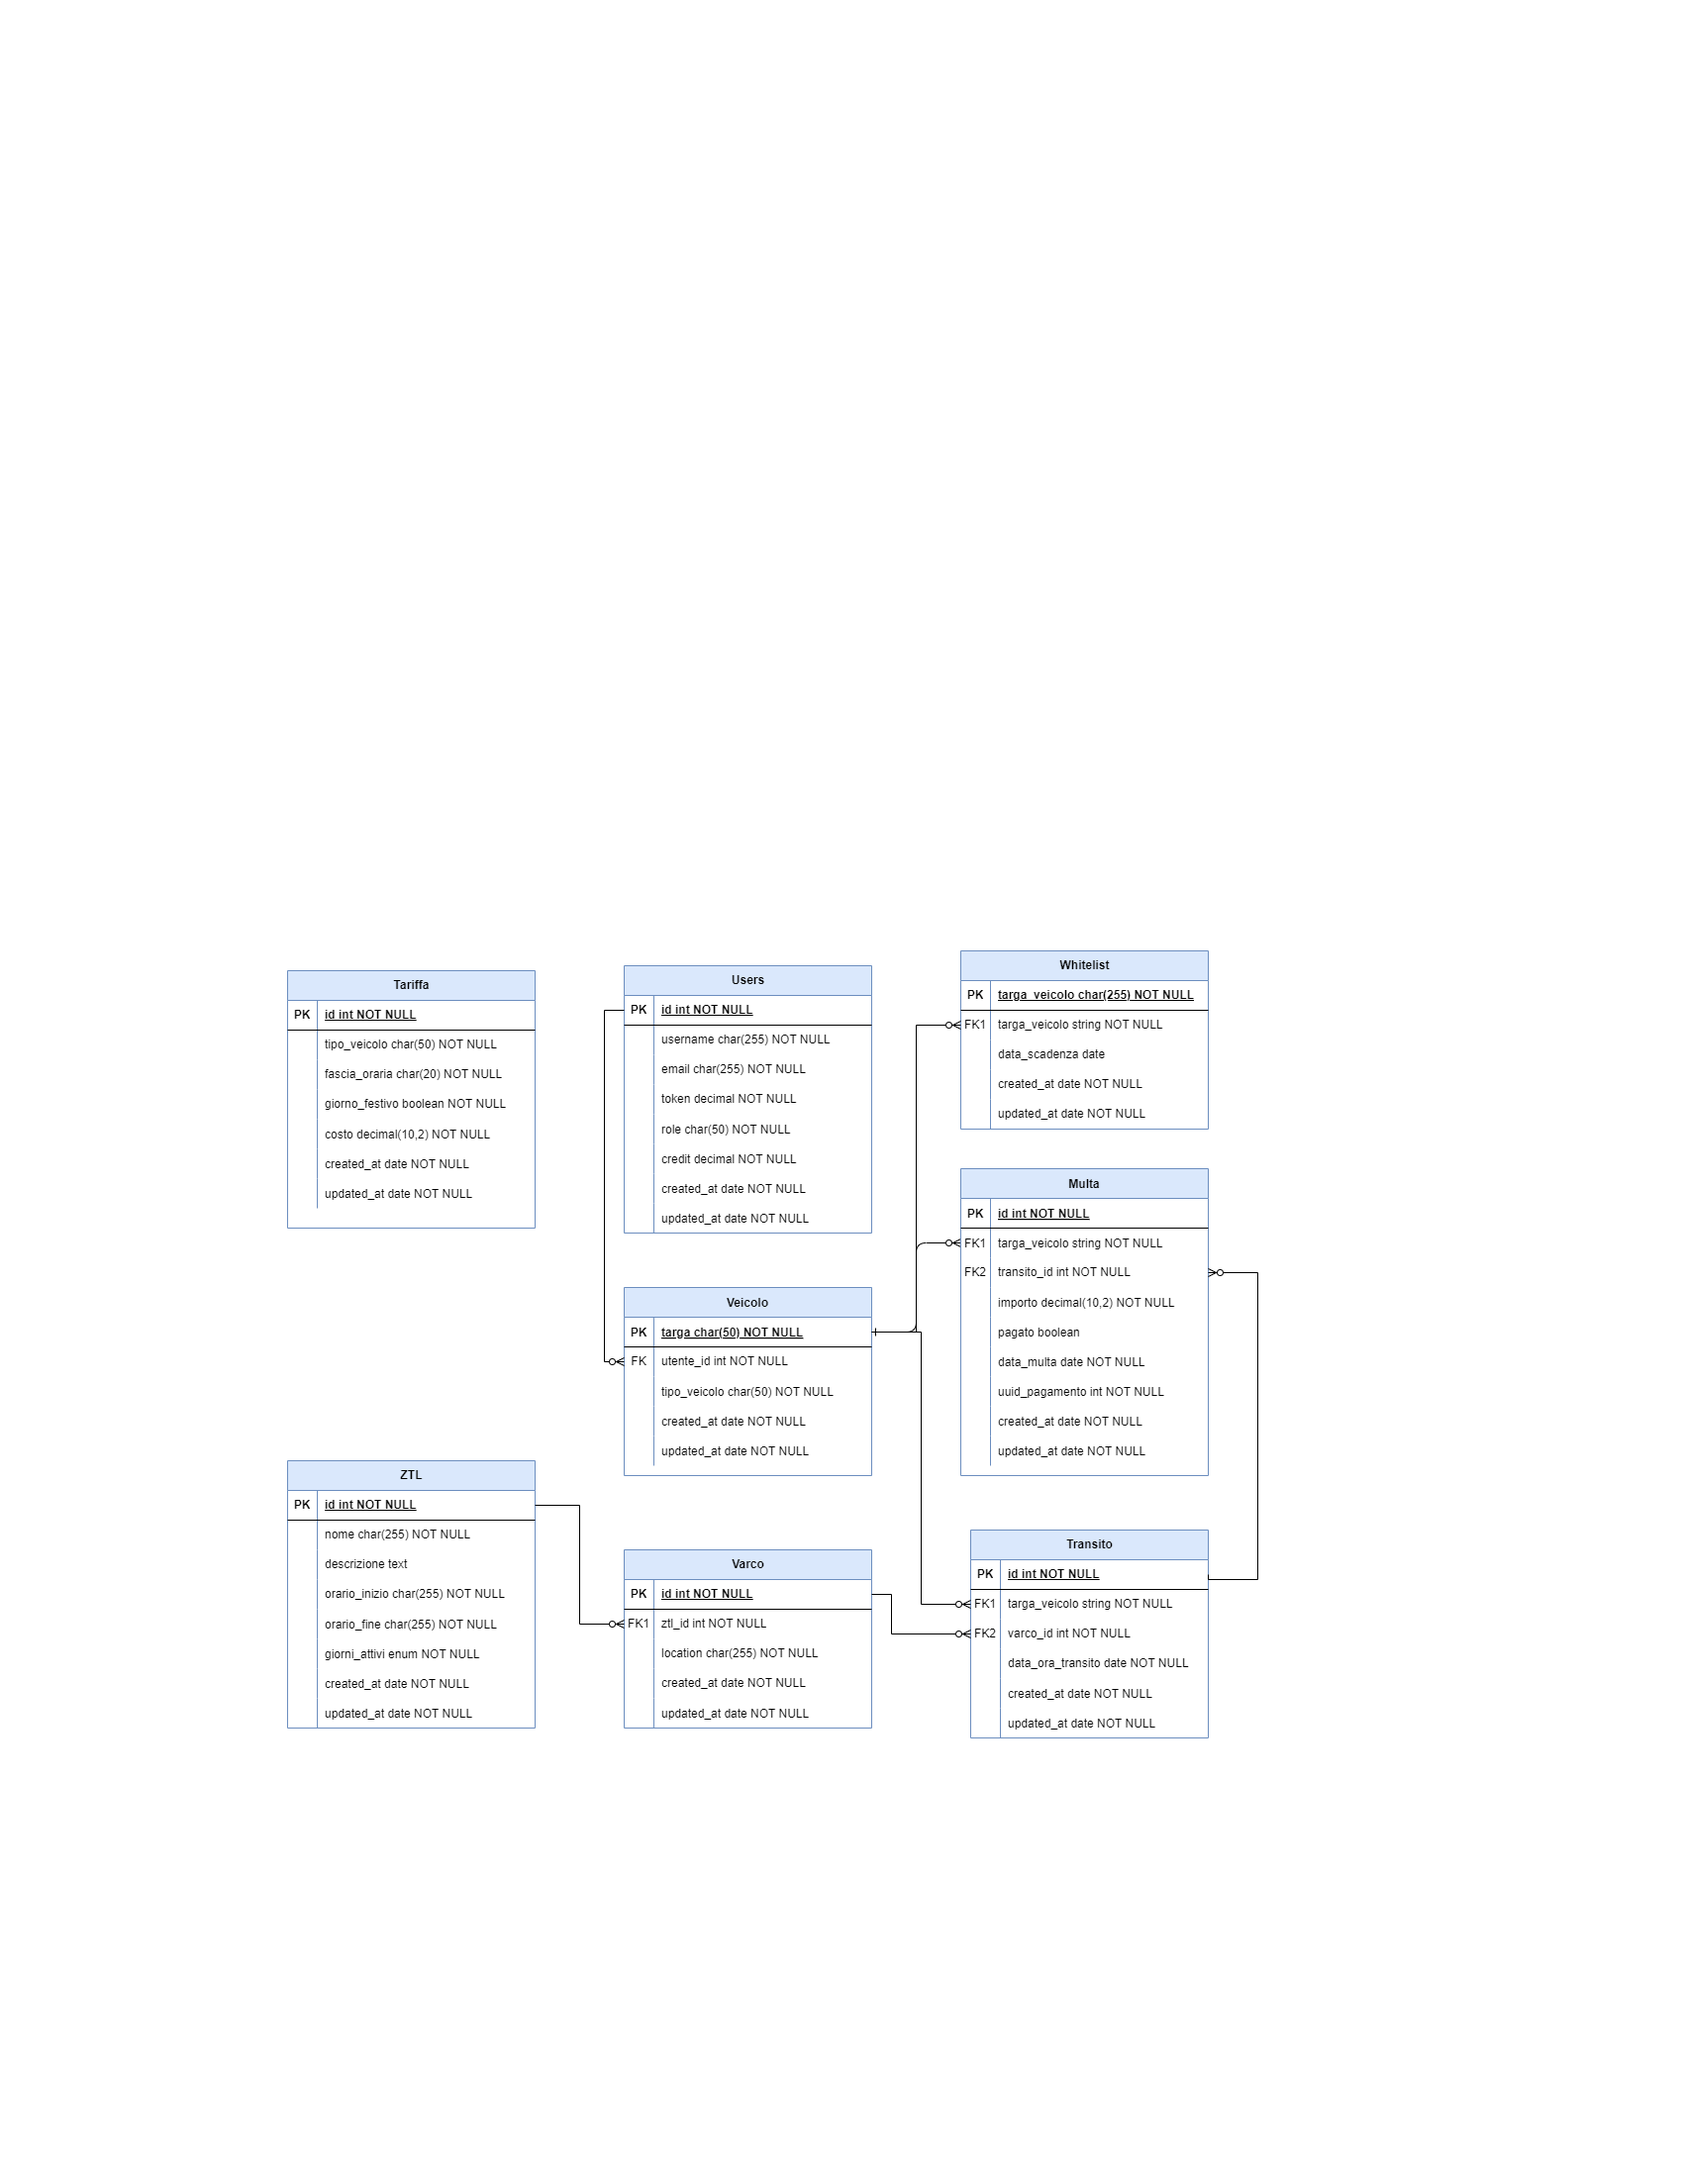
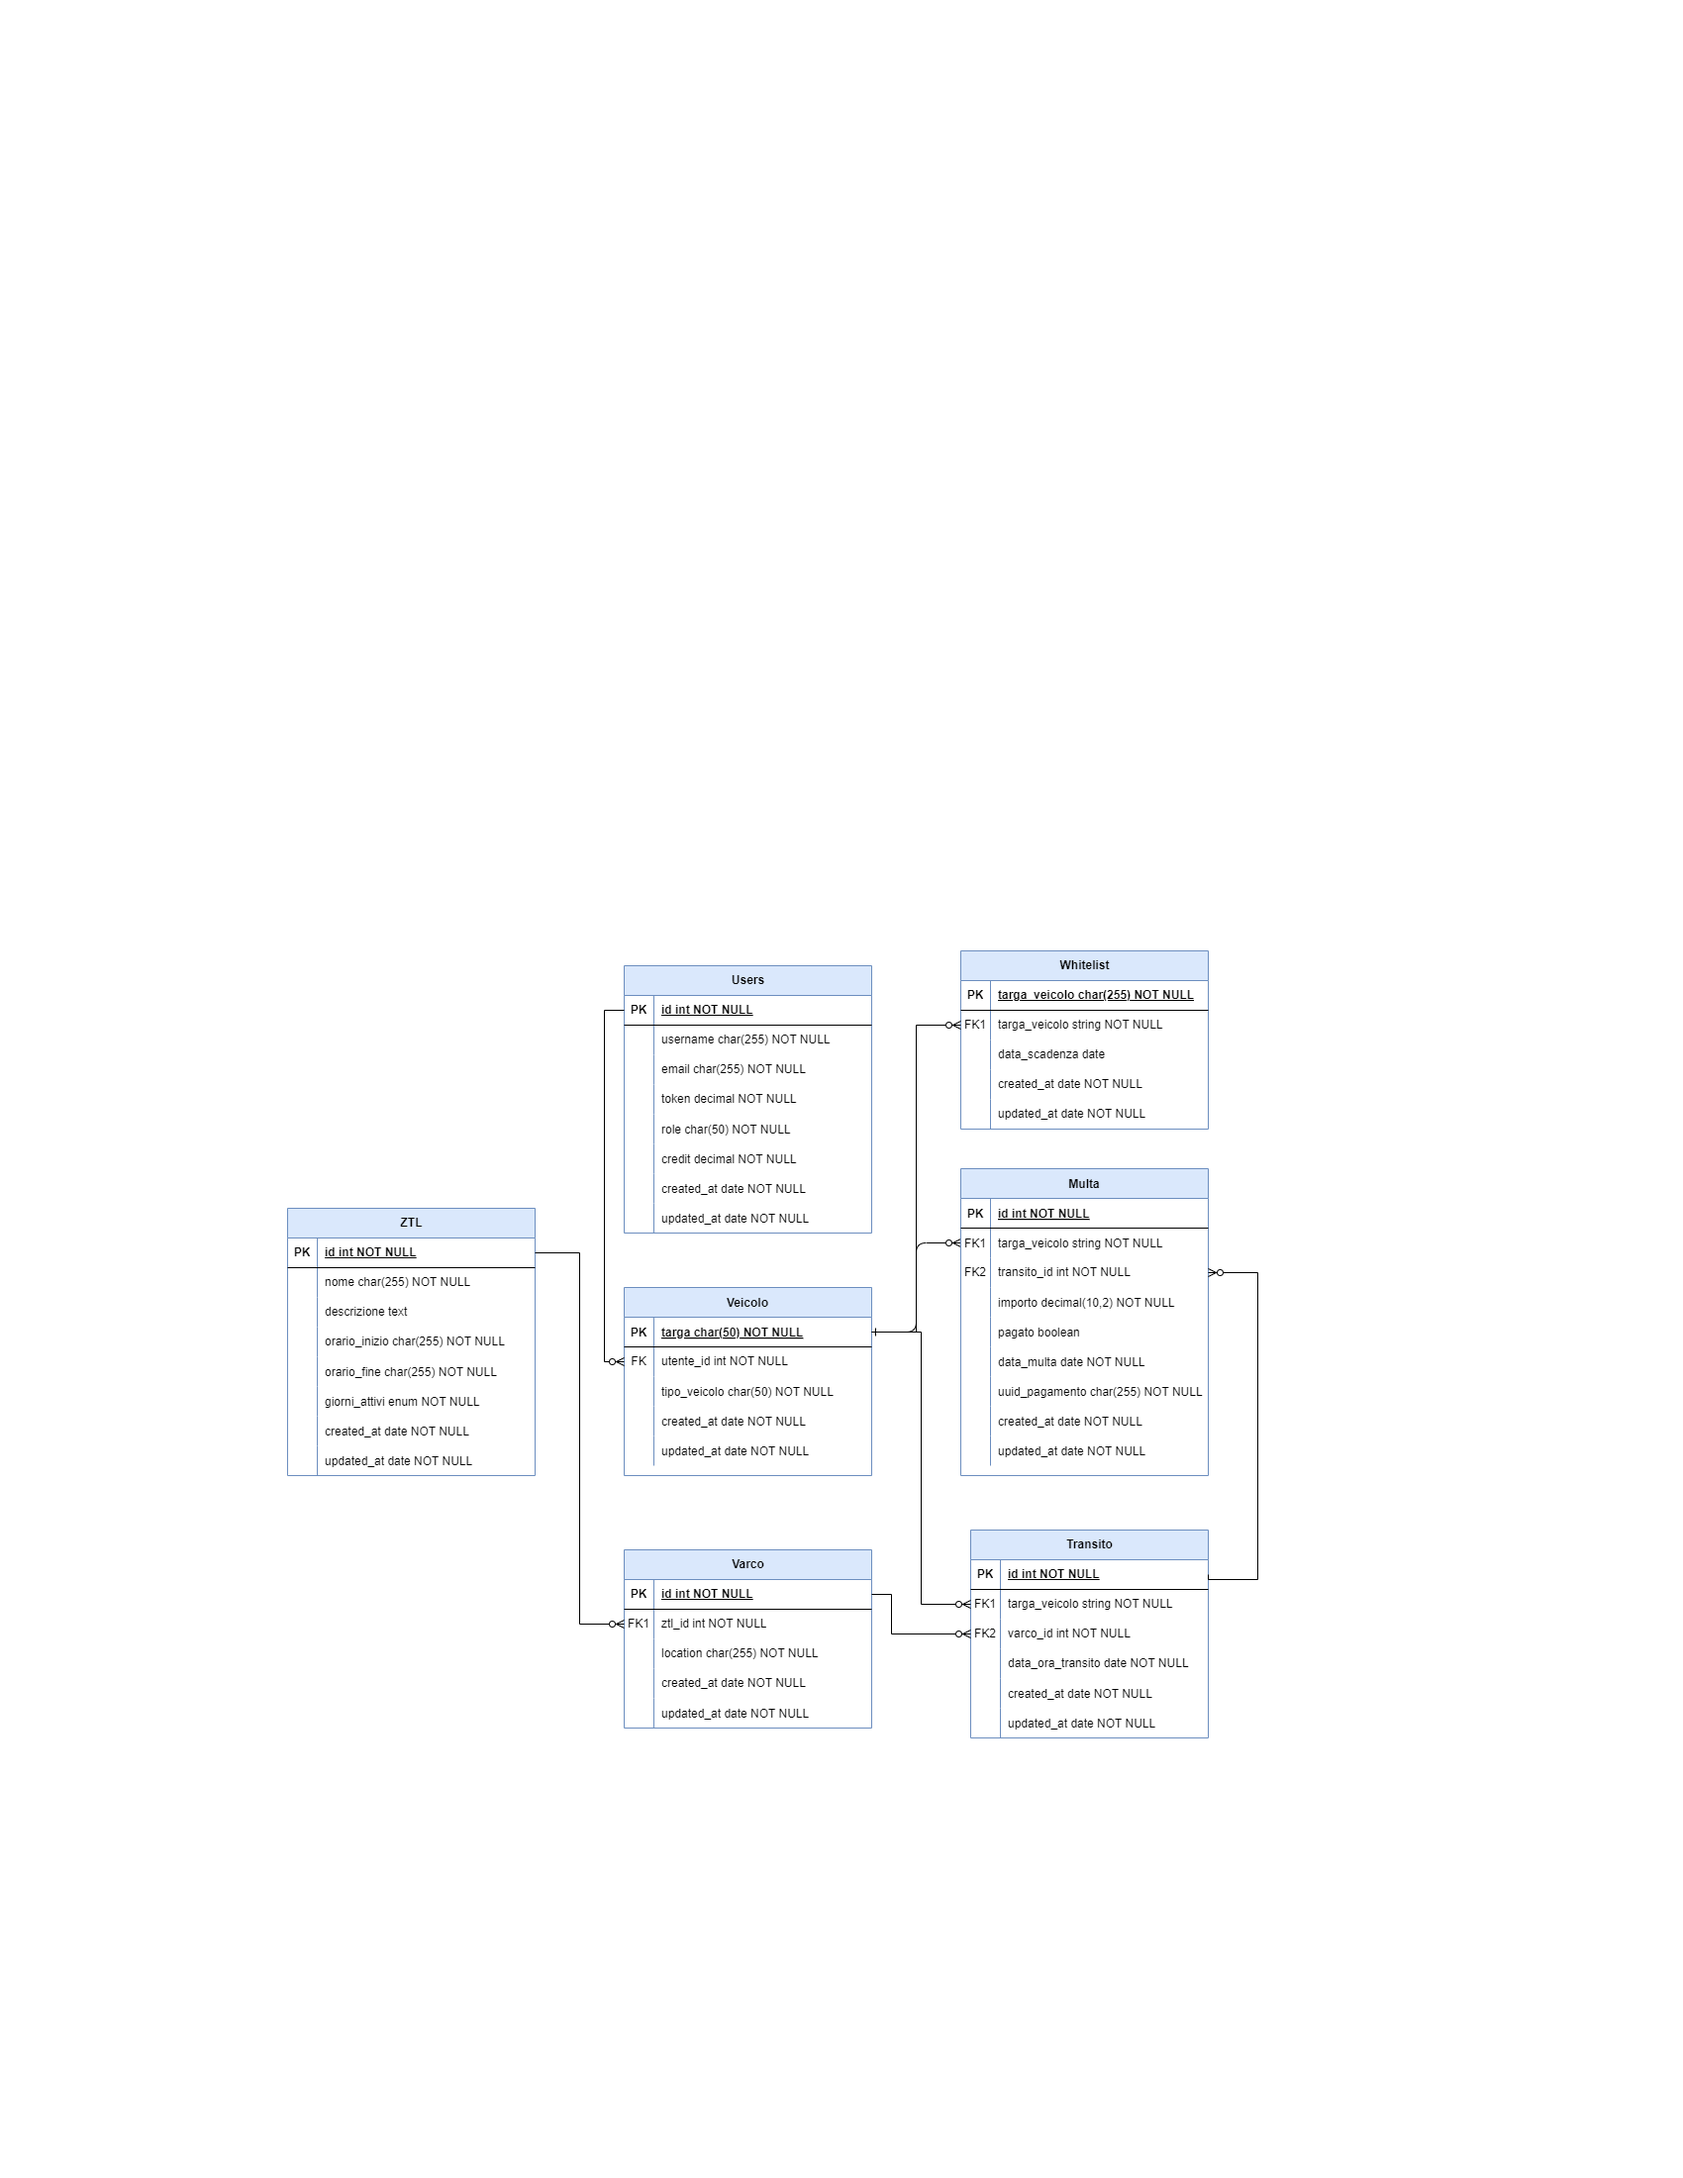
eliminazione tariffa e fix ultime rotte transito

Changed region(s): [[0.1559, 0.4327, 0.3429, 0.8036]]

diff --git a/pagamenti_backend/src/syncDB/dbSync.ts b/pagamenti_backend/src/syncDB/dbSync.ts
@@ -4,7 +4,6 @@ import Veicolo from '../models/veicolo';
 import Transito from '../models/transito';
 import Multa from '../models/multa';
 import Whitelist from '../models/whitelist';
-import Tariffa from '../models/tariffa';
 import User from '../models/user';
 
 const syncDb = async () => {
@@ -14,8 +13,7 @@ const syncDb = async () => {
       await Transito.sync();
       await Multa.sync();
       await Whitelist.sync();
-      await Tariffa.sync();
       await User.sync();
 };
   
-export { ZTL, Varco,Veicolo, Transito, Multa, Whitelist, Tariffa, User, syncDb};
+export { ZTL, Varco,Veicolo, Transito, Multa, Whitelist, User, syncDb};

diff --git a/ztl_backend/src/syncDB/dbSync.ts b/ztl_backend/src/syncDB/dbSync.ts
@@ -4,7 +4,6 @@ import Veicolo from '../models/veicolo';
 import Transito from '../models/transito';
 import Multa from '../models/multa';
 import Whitelist from '../models/whitelist';
-import Tariffa from '../models/tariffa';
 import User from '../models/user';
 
 const syncDb = async () => {
@@ -14,8 +13,7 @@ const syncDb = async () => {
       await Transito.sync();
       await Multa.sync();
       await Whitelist.sync();
-      await Tariffa.sync();
       await User.sync();
 };
   
-export { ZTL, Varco,Veicolo, Transito, Multa, Whitelist, Tariffa, User, syncDb};
+export { ZTL, Varco,Veicolo, Transito, Multa, Whitelist, User, syncDb};

diff --git a/ztl_backend/src/dao/transitoDAO.ts b/ztl_backend/src/dao/transitoDAO.ts
@@ -7,8 +7,8 @@ class TransitoDAO {
     return Transito.create(data);
   }
 
-  public async findAllByVeicolo(veicoloId: string) {
-    return Transito.findAll({ where: { veicoloId } });
+  public async findAllByVeicolo(targaVeicolo: string) {
+    return Transito.findAll({ where: { targaVeicolo } });
   }
 
   public async findAllByVarco(varcoId: number) {

diff --git a/ztl_backend/src/models/veicolo.ts b/ztl_backend/src/models/veicolo.ts
@@ -5,6 +5,7 @@ import User from './user';
 
 class Veicolo extends Model {
   public targa!: string;
+  public utenteId!: number;
   public tipoVeicolo!: string;
 }
 
